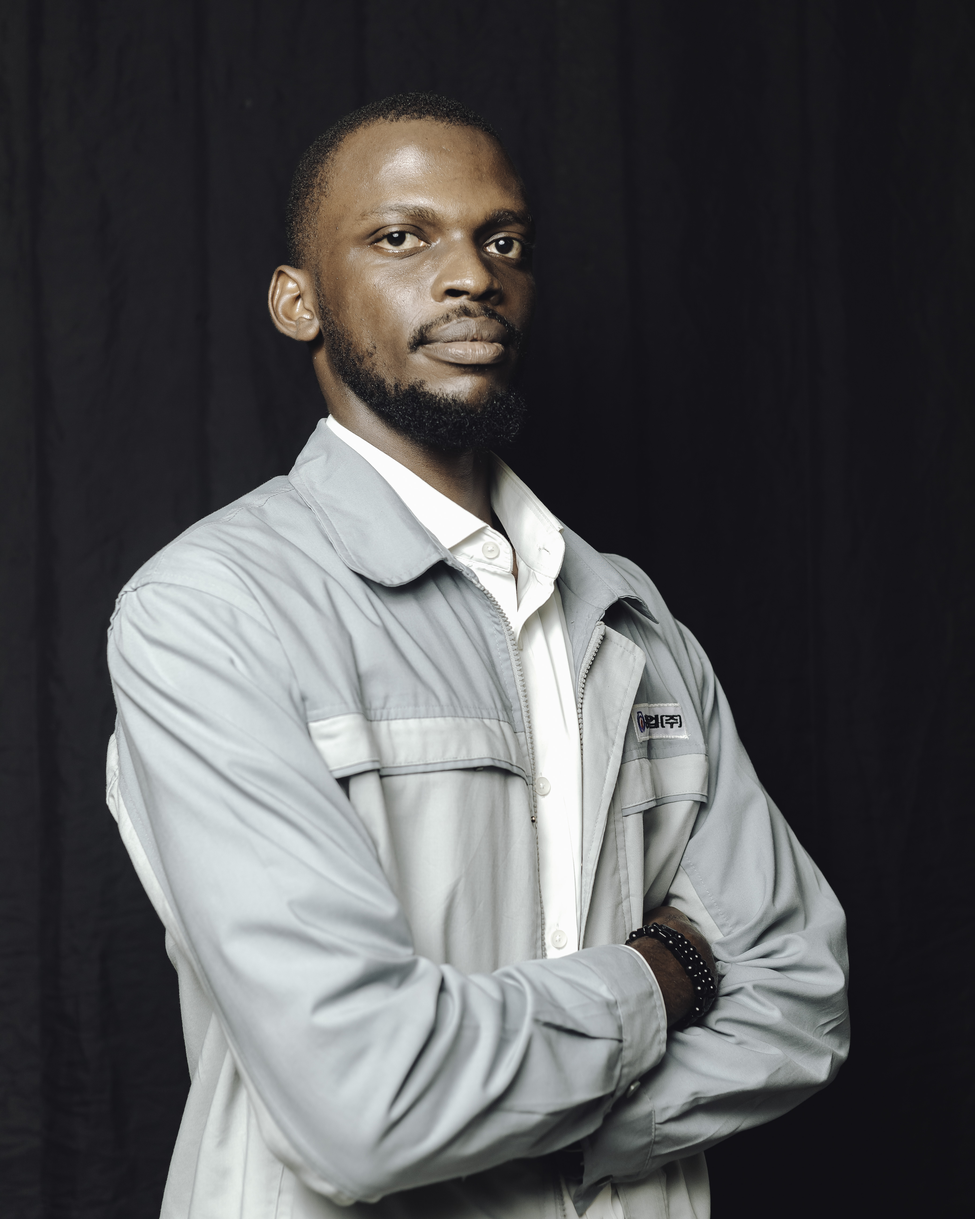
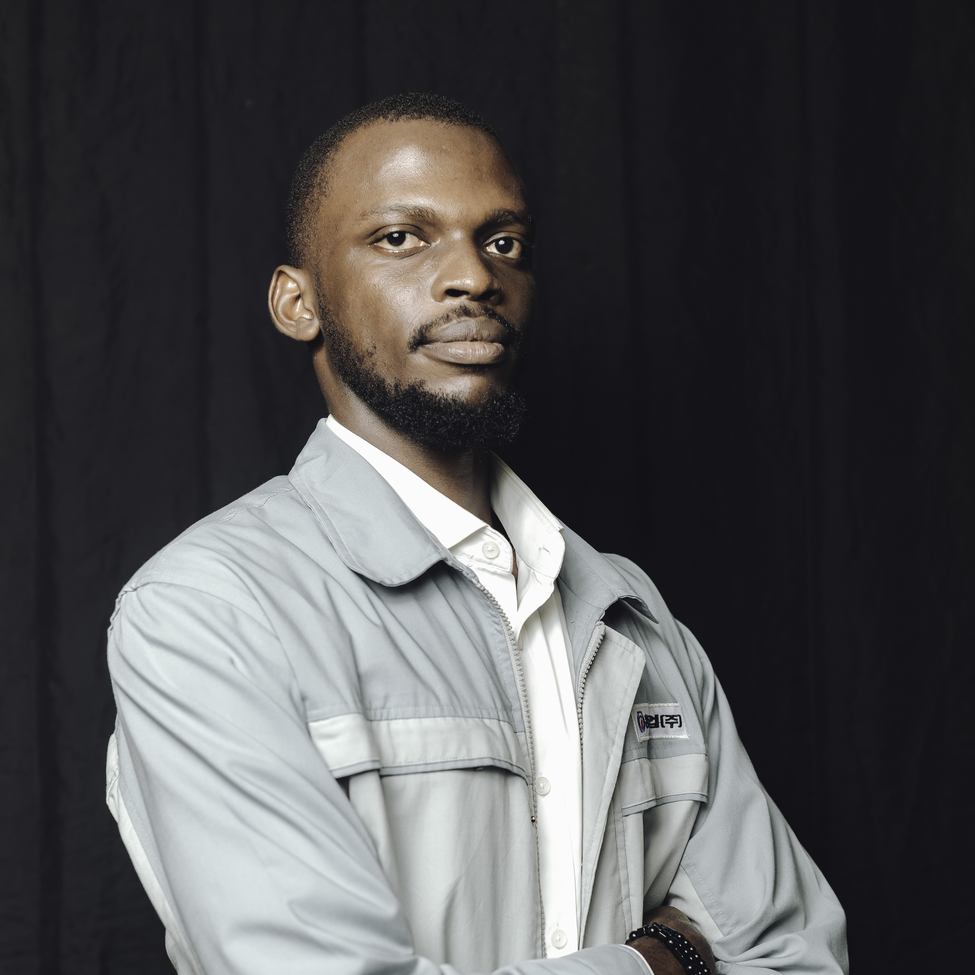
feat: random updates

diff --git a/src/components/Hero.tsx b/src/components/Hero.tsx
@@ -1,5 +1,5 @@
-import { Github, Twitter, Linkedin, Instagram, Youtube } from 'lucide-react';
-import developerImg from 'figma:asset/4995bfc46d525fdedcb998f0f52f6cbc9c90d9b9.png';
+import { Github, Twitter, Linkedin, Instagram, Mail } from "lucide-react";
+import developerImg from "../assets/omofon-potrait.jpeg";
 
 export function Hero() {
   return (
@@ -8,7 +8,14 @@ export function Hero() {
       <div className="absolute inset-0 opacity-5">
         <svg className="w-full h-full" xmlns="http://www.w3.org/2000/svg">
           <defs>
-            <pattern id="topographic" x="0" y="0" width="200" height="200" patternUnits="userSpaceOnUse">
+            <pattern
+              id="topographic"
+              x="0"
+              y="0"
+              width="200"
+              height="200"
+              patternUnits="userSpaceOnUse"
+            >
               <path
                 d="M20 20c10 0 20 10 20 20s-10 20-20 20-20-10-20-20 10-20 20-20zm40 0c10 0 20 10 20 20s-10 20-20 20-20-10-20-20 10-20 20-20zm40 0c10 0 20 10 20 20s-10 20-20 20-20-10-20-20 10-20 20-20z"
                 fill="none"
@@ -33,7 +40,7 @@ export function Hero() {
         </svg>
       </div>
 
-      <div className="relative max-w-7xl mx-auto px-4 sm:px-6 lg:px-8 py-16 md:py-24">
+      <div className="relative max-w-7xl mx-auto px-8 sm:px-12 lg:px-16 py-16 md:py-24">
         <div className="grid md:grid-cols-2 gap-12 items-center">
           {/* Left Content */}
           <div className="space-y-6 z-10">
@@ -42,13 +49,14 @@ export function Hero() {
                 Hi, I am
               </p>
               <h1 className="text-3xl md:text-5xl font-bold text-foreground">
-                Omofon Udoh.
+                Omofon.
               </h1>
               <p className="text-xl md:text-3xl text-foreground">
-                I build web<br />& Mobile apps
+                I build web
+                <br />& Mobile apps
               </p>
             </div>
-            
+
             <button className="bg-primary hover:bg-primary/90 text-white px-8 py-3 rounded-full transition-colors">
               HIRE ME
             </button>
@@ -56,7 +64,7 @@ export function Hero() {
             {/* Social Links */}
             <div className="flex space-x-4 pt-8">
               <a
-                href="https://github.com"
+                href="https://github.com/omofon"
                 target="_blank"
                 rel="noopener noreferrer"
                 className="text-gray-600 dark:text-gray-400 hover:text-primary transition-colors"
@@ -74,7 +82,7 @@ export function Hero() {
                 <Instagram className="w-5 h-5" />
               </a>
               <a
-                href="https://twitter.com"
+                href="https://twitter.com/omofzzz"
                 target="_blank"
                 rel="noopener noreferrer"
                 className="text-gray-600 dark:text-gray-400 hover:text-primary transition-colors"
@@ -83,7 +91,7 @@ export function Hero() {
                 <Twitter className="w-5 h-5" />
               </a>
               <a
-                href="https://linkedin.com"
+                href="https://linkedin.com/in/omofon"
                 target="_blank"
                 rel="noopener noreferrer"
                 className="text-gray-600 dark:text-gray-400 hover:text-primary transition-colors"
@@ -92,13 +100,13 @@ export function Hero() {
                 <Linkedin className="w-5 h-5" />
               </a>
               <a
-                href="https://youtube.com"
+                href="mailto:omofon.u@gmail.com"
                 target="_blank"
                 rel="noopener noreferrer"
                 className="text-gray-600 dark:text-gray-400 hover:text-primary transition-colors"
-                aria-label="YouTube"
+                aria-label="Mail"
               >
-                <Youtube className="w-5 h-5" />
+                <Mail className="w-5 h-5" />
               </a>
             </div>
           </div>

diff --git a/src/components/Navigation.tsx b/src/components/Navigation.tsx
@@ -28,7 +28,7 @@ export function Navigation() {
         <div className="flex justify-between items-center h-16">
           {/* Logo */}
           <div className="flex items-center">
-            <span className="text-lg font-semibold">HcR</span>
+            <span className="text-lg font-semibold">Omofon</span>
           </div>
 
           {/* Navigation Links */}

diff --git a/src/App.tsx b/src/App.tsx
@@ -9,7 +9,7 @@ import { Footer } from "./components/Footer";
 
 export default function App() {
   return (
-    <div className="min-h-screen bg-background">
+    <div className="min-h-screen bg-background flex flex-col">
       <Navigation />
       <main>
         <Hero />

diff --git a/src/components/Header.tsx b/src/components/Header.tsx
@@ -27,7 +27,7 @@ export function Header() {
           onClick={() => scrollToSection('#home')}
           className="text-xl"
         >
-          Alex Chen
+          Omofon
         </button>
         
         {/* Desktop Navigation */}
